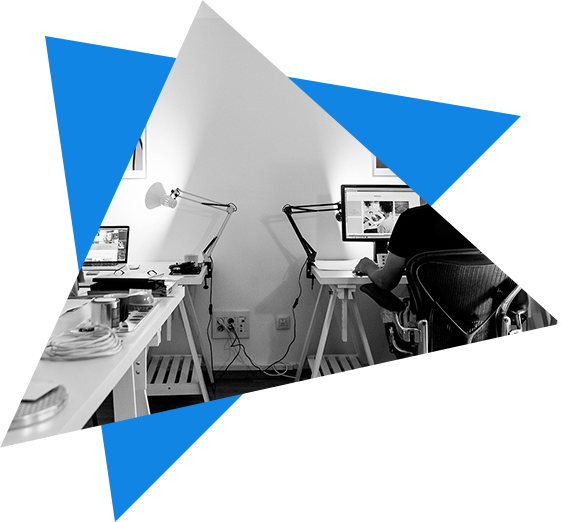
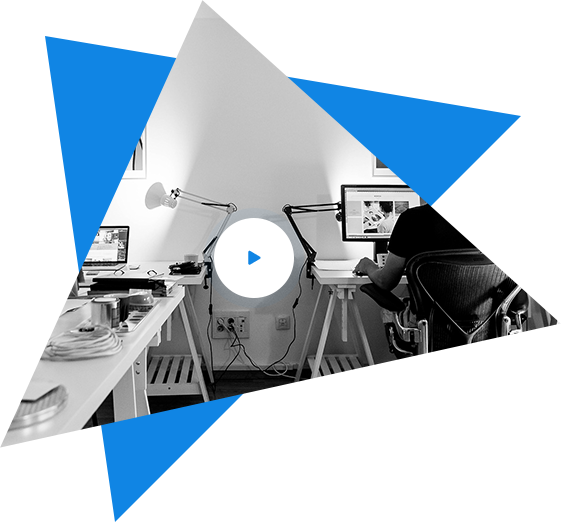
Правки

Changed region(s): [[0.3636, 0.3985, 0.5455, 0.5824]]

diff --git a/css/style.css b/css/style.css
@@ -832,19 +832,10 @@ h2 span {
 
 .page-app-img {
     position: absolute;
-    top: 7%;
-    right: 12%;
+    top: 8%;
+    right: 12.3%;
 }
-.page-app-img .play {
-    position: absolute;
-    top: 40%;
-    left: 37%;
-    transform: translate(-50%; -50%);
-    -webkit-transform: translate(-50%);
-    -moz-transform: translate(-50%);
-    -ms-transform: translate(-50%);
-    -o-transform: translate(-50%);
-}
+
 .page-app-flex {
     display: -webkit-box;
     display: -ms-flexbox;
@@ -885,6 +876,9 @@ h2 span {
     -moz-border-radius: 50px;
     -ms-border-radius: 50px;
     -o-border-radius: 50px;
+}
+.page-analytics-btn:hover {
+    background-color: #edf6ff;
 }
 .page-analytics .section-title {
     margin-bottom: 25px;
@@ -1658,11 +1652,35 @@ h2 span {
     }
 }
 @media (max-width: 575px) {
+    .logo {
+        background-size: cover;
+        width: 159px;
+        height: 43px;
+    }
+    .btn-menu {
+        margin-top: -26px;
+    }
+    .list-company {
+        
+    }
     .company-one, .company-two, .company-three, .company-four {
-        flex-basis: 100%;
+        flex-basis: 150px;
+        width: 150px;
+        height: 44px;
+        background-size: cover;
+        margin: auto;
+        margin-bottom: 20px;
+    }
+    .company-two {
+        width: 140px;
+        flex-basis: 150px;
+        height: 52px;
     }
     .company-three {
-        margin-bottom: 30px;
+        height: 34px;
+    }
+    .company-four {
+        margin-bottom: 0;
     }
     .grid {
         grid-template-areas: "a"
@@ -1734,10 +1752,6 @@ h2 span {
         right: 0;
         width: 80%;
     }
-    .page-app-img .play {
-        top: 25%;
-        left: 44%;
-    }
     .box-clients-item {
         padding: 15px 20px;
     }
@@ -1769,5 +1783,42 @@ h2 span {
     }
     .social li {
         margin-left: 0;
+    }
+    p {
+        font-size: 14px;
+        line-height: 1.7;
+    }
+    .section-title {
+        font-size: 27px;
+    }
+    .page-app-img {
+        width: 70%;
+        margin: auto;
+        left: 0;
+        transform: translateX(0);
+        -webkit-transform: translateX(0);
+        -moz-transform: translateX(0);
+        -ms-transform: translateX(0);
+        -o-transform: translateX(0);
+    }
+    .box-price-item .btn {
+        position: relative;
+        z-index: 2;
+    }
+    .box-team-item {
+        max-width: 280px;
+    }
+    .box-team-item .name {
+        margin-bottom: 10px;
+        font-size: 23px;
+    }
+    .box-team-item .position {
+        font-size: 12px;
+    }
+    .btn-free {
+        padding: 14px 0;
+    }
+    .modal {
+        max-width: 280px;
     }
 }

diff --git a/index.html b/index.html
@@ -5,7 +5,6 @@
     <meta name="viewport" content="width=device-width, initial-scale=1.0">
     <meta http-equiv="X-UA-Compatible" content="ie=edge">
     <title>Limpon</title>
-
     <link rel="apple-touch-icon" sizes="57x57" href="img/favicon/apple-touch-icon-57x57.png" data-mce-href="img/favicon/apple-touch-icon-57x57.png">
     <link rel="apple-touch-icon" sizes="60x60" href="img/favicon/apple-touch-icon-60x60.png" data-mce-href="img/favicon/apple-touch-icon-60x60.png">
     <link rel="apple-touch-icon" sizes="72x72" href="img/favicon/apple-touch-icon-72x72.png" data-mce-href="img/favicon/apple-touch-icon-72x72.png">
@@ -200,8 +199,7 @@
              </div>
         </div>
         <div class="page-app-img">
-            <a href=""><img src="img/app/btn-play.png" alt="" class="play"></a>
-            <img src="img/app/app-img.png" alt="">
+            <a href=""><img src="img/app/app-img.png" alt=""></a> 
         </div>
     </div>
     
